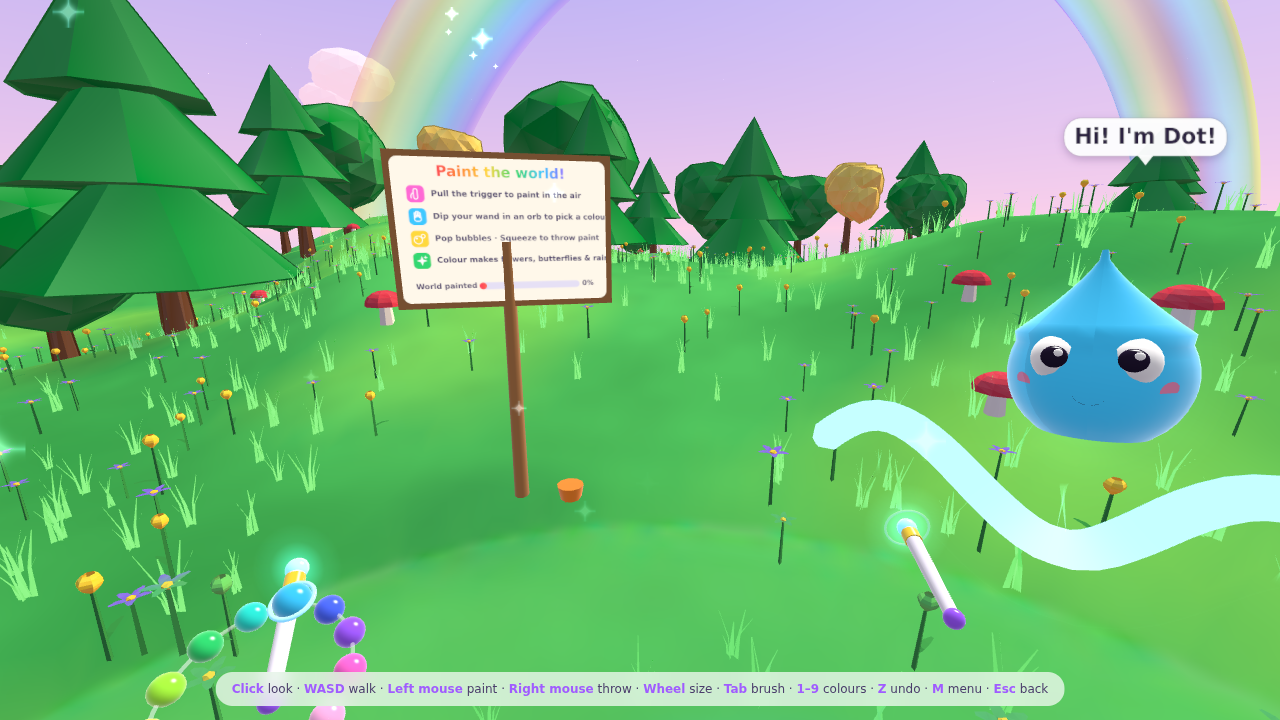
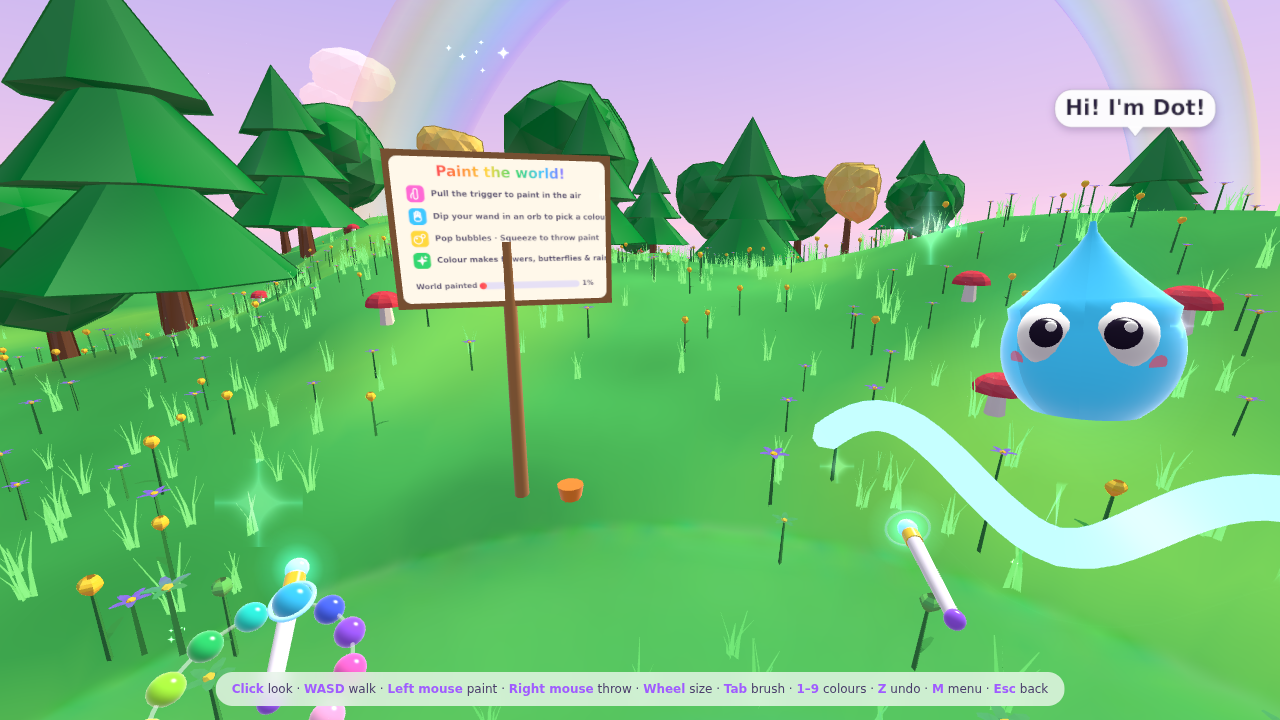
Dot's chirp voice, faster rainbow hide, intro skip for tests, README image grid
Claude-Session: https://claude.ai/code/session_019fquf7EQBYGX6aZbE38kPe

diff --git a/src/creatures/Buddy.js b/src/creatures/Buddy.js
@@ -98,6 +98,8 @@ export class Buddy {
     this.yaw = 0;
     this.lookAtTip = 0;
     this.wave = 0;
+    this.mood = 'idle';
+    this.moodT = 0;
     this.shadow = new BlobShadow(app, 0.16);
     this.group.add(this.shadow.mesh);
 
@@ -105,6 +107,7 @@ export class Buddy {
     ev.on('paintstart', () => this.react(0.5));
     ev.on('bubblepop', (e) => {
       this.react(0.9);
+      this.setMood('happy', 1.2);
       this.spinVel += 14;
       if (e.byHand) this.say(this.app.rng.pick(['Pop!', 'Nice one!', 'Wheee!', 'Got it!']), 1.4);
     });
@@ -115,6 +118,7 @@ export class Buddy {
     });
     ev.on('milestone', (m) => {
       this.react(1);
+      this.setMood('happy', 3);
       this.spinVel += 20;
       this.say(m.buddy || 'Amazing!', 3);
     });
@@ -133,6 +137,12 @@ export class Buddy {
 
   say(text, duration = 2) {
     this.sayQueue.push({ text, duration });
+  }
+
+  /** 'surprised' (wide eyes, round mouth) or 'happy' (squinty smile) for a while */
+  setMood(mood, duration = 1.5) {
+    this.mood = mood;
+    this.moodT = duration;
   }
 
   /** pop into view right in front of the player (intro) with a little wave */
@@ -237,8 +247,32 @@ export class Buddy {
       this.blinkT = 1.8 + rng.float() * 3.5;
     }
     this.blink = Math.max(0, this.blink - dt * 9);
-    const eyeScale = this.blink > 0.5 ? 0.08 : 1;
-    for (const e of this.eyes) e.scale.y = damp(e.scale.y, eyeScale, 40, dt);
+    if (this.moodT > 0) {
+      this.moodT -= dt;
+      if (this.moodT <= 0) this.mood = 'idle';
+    }
+    let eyeY = 1;
+    let eyeXZ = 1;
+    let mouthScale = 1;
+    let mouthRot = Math.PI; // smile
+    if (this.mood === 'surprised') {
+      eyeY = 1.3;
+      eyeXZ = 1.25;
+      mouthScale = 0.7;
+      mouthRot = 0; // little "o"-ish frown flips the arc
+    } else if (this.mood === 'happy') {
+      eyeY = 0.45;
+      mouthScale = 1.35;
+    }
+    const eyeScale = this.blink > 0.5 ? 0.08 : eyeY;
+    for (const e of this.eyes) {
+      e.scale.y = damp(e.scale.y, eyeScale, 40, dt);
+      e.scale.x = damp(e.scale.x, eyeXZ, 12, dt);
+      e.scale.z = damp(e.scale.z, eyeXZ, 12, dt);
+    }
+    this.mouth.scale.x = damp(this.mouth.scale.x, mouthScale, 12, dt);
+    this.mouth.scale.y = damp(this.mouth.scale.y, mouthScale, 12, dt);
+    this.mouth.rotation.z = damp(this.mouth.rotation.z, mouthRot, 10, dt);
 
     // speech
     if (this.bubbleT > 0) {
@@ -249,6 +283,7 @@ export class Buddy {
       if (this.bubbleT <= 0) this.bubble.visible = false;
     } else if (this.sayQueue.length) {
       const s = this.sayQueue.shift();
+      if (app.audio) app.audio.chatter(s.text, this.group.position, this.mood);
       this.bubble.setText(s.text);
       const h = 0.14;
       this.bubble.scale.set(this.bubble.userData.aspect * h, h, 1);

diff --git a/src/systems/Intro.js b/src/systems/Intro.js
@@ -65,24 +65,42 @@ export class Intro {
         { at: 0.5, fn: () => app.buddy.say("Hi! I'm Dot!", 2.0) },
         { at: 2.7, fn: () => app.buddy.say('Oh no! The colours are fading away!', 2.8) },
         { at: 2.9, fn: () => this.beginDrain() },
-        { at: 5.9, fn: () => app.buddy.say('Pull the trigger and paint them back!', 3.4) },
+        { at: 5.9, fn: () => app.buddy.say(this._paintHint(), 3.4) },
         { at: 5.9, fn: () => (app.hintPulse = true) },
-        { at: 12.0, fn: () => !this.sawPaint && app.buddy.say('Wave your wand and squeeze the trigger!', 3.4) },
+        { at: 12.0, fn: () => !this.sawPaint && app.buddy.say(this._paintHint(true), 3.4) },
         { at: 20.0, fn: () => !this.sawPaint && app.buddy.say('You can do it! Paint anywhere!', 3.0) },
       ];
     }
+  }
+
+  _paintHint(again = false) {
+    const h = this.app.hands;
+    const tracked = (h.right.connected && h.right.isTrackedHand) || (h.left.connected && h.left.isTrackedHand);
+    if (tracked) return again ? 'Pinch your finger and thumb, then wave!' : 'Pinch to paint the colours back!';
+    if (this.app.mode === 'desktop') return again ? 'Hold the left mouse button and move!' : 'Click and drag to paint them back!';
+    return again ? 'Wave your wand and squeeze the trigger!' : 'Pull the trigger and paint them back!';
   }
 
   beginDrain() {
     this.drainT = 0;
     this.drainFrom = 1;
     this.app.milestones.rainbow.show(false);
+    this.app.buddy.setMood('surprised', this.drainDur + 0.8);
     if (this.app.audio) this.app.audio.drain(this.drainDur);
     if (this.app.fx && this.phase === 'story') {
       const p = this.app.headPosition();
       p.y -= 0.2;
       this.app.fx.burst(p, this.app.paint.color, 30, 1.6, 0.05);
     }
+  }
+
+  /** jump straight to the drained, ready-to-paint state (tests, returning players) */
+  skip() {
+    if (this.done) return;
+    this.steps = [];
+    this.drainT = -1;
+    this.app.milestones.rainbow.show(false);
+    this.finish();
   }
 
   finish() {

diff --git a/src/audio/Audio.js b/src/audio/Audio.js
@@ -211,6 +211,18 @@ export class Audio {
     [7, 3, 0].forEach((st, i) => this._tone(329.63 * Math.pow(2, st / 12), { type: 'triangle', attack: 0.02, decay: 1.2, gain: 0.05, reverb: 0.9, when: 0.2 + i * 0.5 }));
   }
 
+  /** Dot's voice: a burst of cute chirps, one per syllable-ish */
+  chatter(text, pos = null, mood = 'idle') {
+    if (!this.ready || this.muted) return;
+    const n = Math.min(14, Math.max(2, Math.round(String(text).length / 3)));
+    const base = mood === 'surprised' ? 520 : mood === 'happy' ? 760 : 660;
+    for (let i = 0; i < n; i++) {
+      const f = base * Math.pow(2, (Math.floor(Math.random() * 7) - 3) / 12) * (i === n - 1 && /[?!]$/.test(text) ? 1.25 : 1);
+      this._tone(f, { type: 'triangle', attack: 0.008, decay: 0.07, gain: 0.05, sweepTo: f * (Math.random() < 0.5 ? 1.12 : 0.9), sweepTime: 0.06, reverb: 0.25, when: i * 0.085, pos });
+      this._tone(f * 2.01, { type: 'sine', attack: 0.005, decay: 0.05, gain: 0.015, reverb: 0.2, when: i * 0.085, pos });
+    }
+  }
+
   setMuted(m) {
     this.muted = m;
     if (this.master) this.master.gain.setTargetAtTime(m ? 0 : 0.8, this.ctx.currentTime, 0.05);

diff --git a/src/world/Rainbow.js b/src/world/Rainbow.js
@@ -57,7 +57,7 @@ export class Rainbow {
 
   update(dt) {
     const v = this.material.uniforms.opacity.value;
-    const nv = v + (this.target - v) * (1 - Math.exp(-dt * 0.6));
+    const nv = v + (this.target - v) * (1 - Math.exp(-dt * (this.target > v ? 0.6 : 1.8)));
     this.material.uniforms.opacity.value = nv;
     this.mesh.visible = nv > 0.01;
   }

diff --git a/README.md b/README.md
@@ -23,8 +23,14 @@ The title screen shows a little floating island in full colour. The moment you s
 Everything is procedural: the island, plants, clouds, particles, the music and every sound are generated in code, so the whole experience is ~1 MB and works offline as an installable app.
 
 <p align="center">
-  <img src="docs/screenshots/04-vr-brushes.png" width="49%" alt="Six brushes: glow, rainbow, sparkle, cotton, stickers and bubbles" />
-  <img src="docs/screenshots/10-vr-fireworks.png" width="49%" alt="The smiling sun and a rainbow over the painted island" />
+  <img src="docs/screenshots/03-vr-start.png" width="32%" alt="Dot says hello on the full-colour title island" />
+  <img src="docs/screenshots/04-vr-brushes.png" width="32%" alt="Neon strokes over the pencil-sketch island" />
+  <img src="docs/screenshots/10-vr-fireworks.png" width="32%" alt="The smiling sun and a rainbow over the painted island" />
+</p>
+<p align="center">
+  <img src="docs/screenshots/05-vr-palette.png" width="32%" alt="Picking a colour from the orb crown" />
+  <img src="docs/screenshots/06-vr-teleport.png" width="32%" alt="The glowing teleport arc" />
+  <img src="docs/screenshots/07-vr-menu.png" width="32%" alt="The floating menu with laser pointers" />
 </p>
 
 ## Play it
